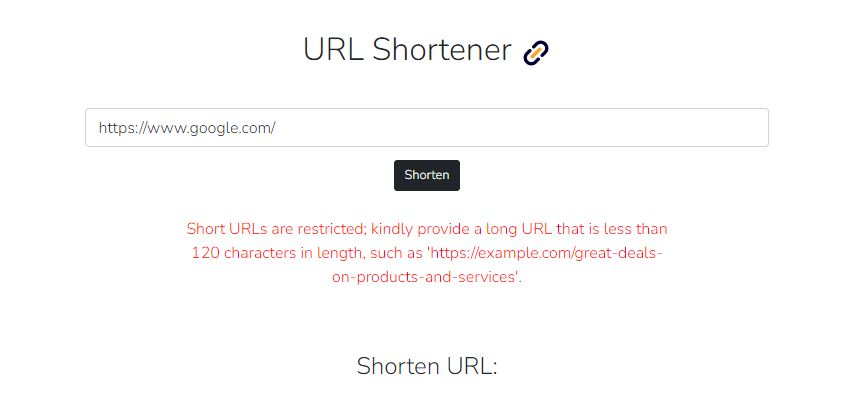
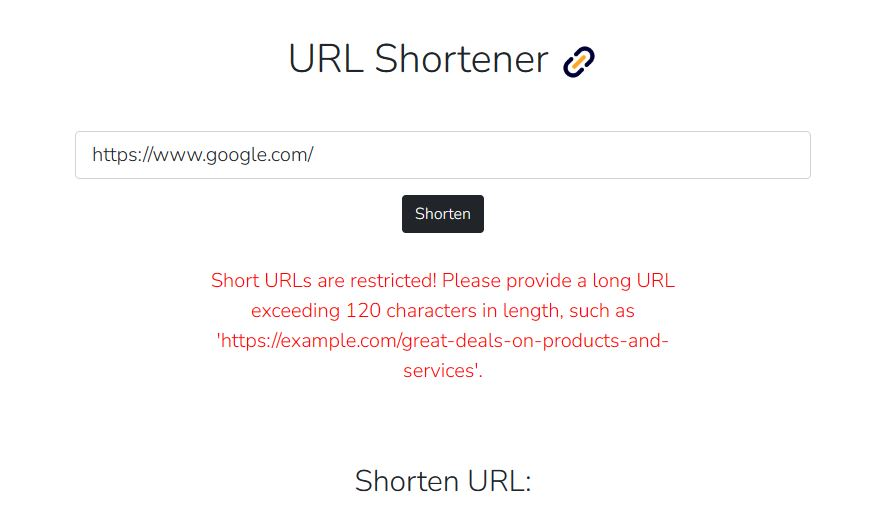
first commit

diff --git a/app.js b/app.js
@@ -56,7 +56,7 @@ app.post('/', async (req, res) => {
             }
         } else {
             // Display an error for invalid URL lengths
-            const error = "Short URLs are restricted; kindly provide a long URL that is less than 120 characters in length, such as \
+            const error = "Short URLs are restricted! Please provide a long URL exceeding 120 characters in length, such as \
              'https://example.com/great-deals-on-products-and-services'.";
             res.render('index', { error: error, newURL: {} });
         }
